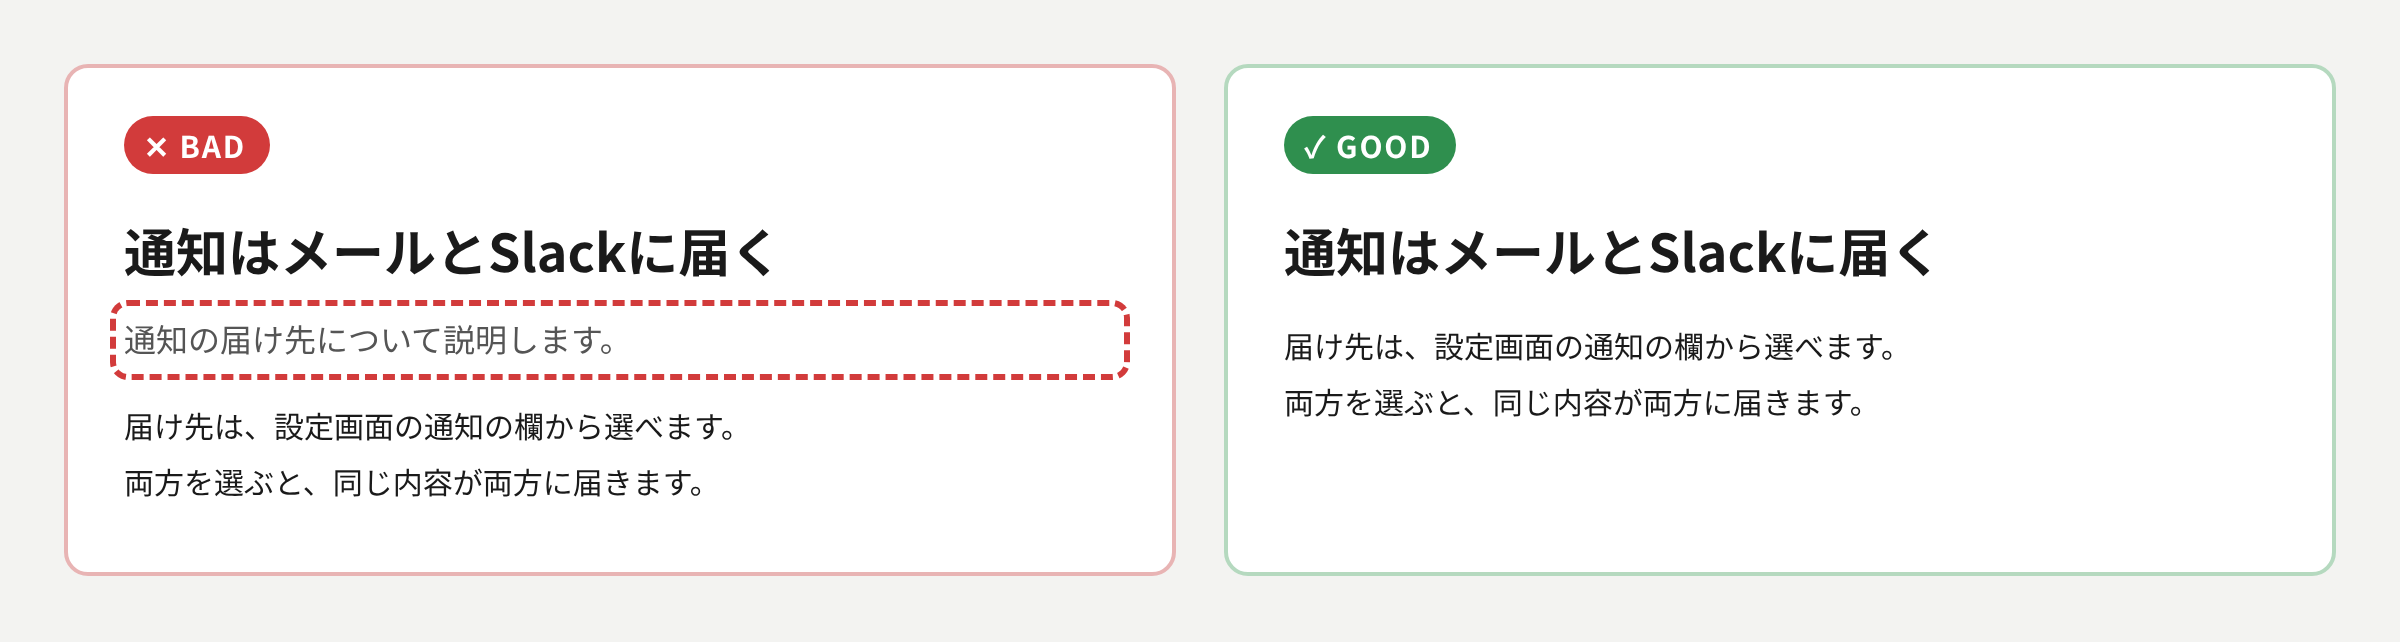
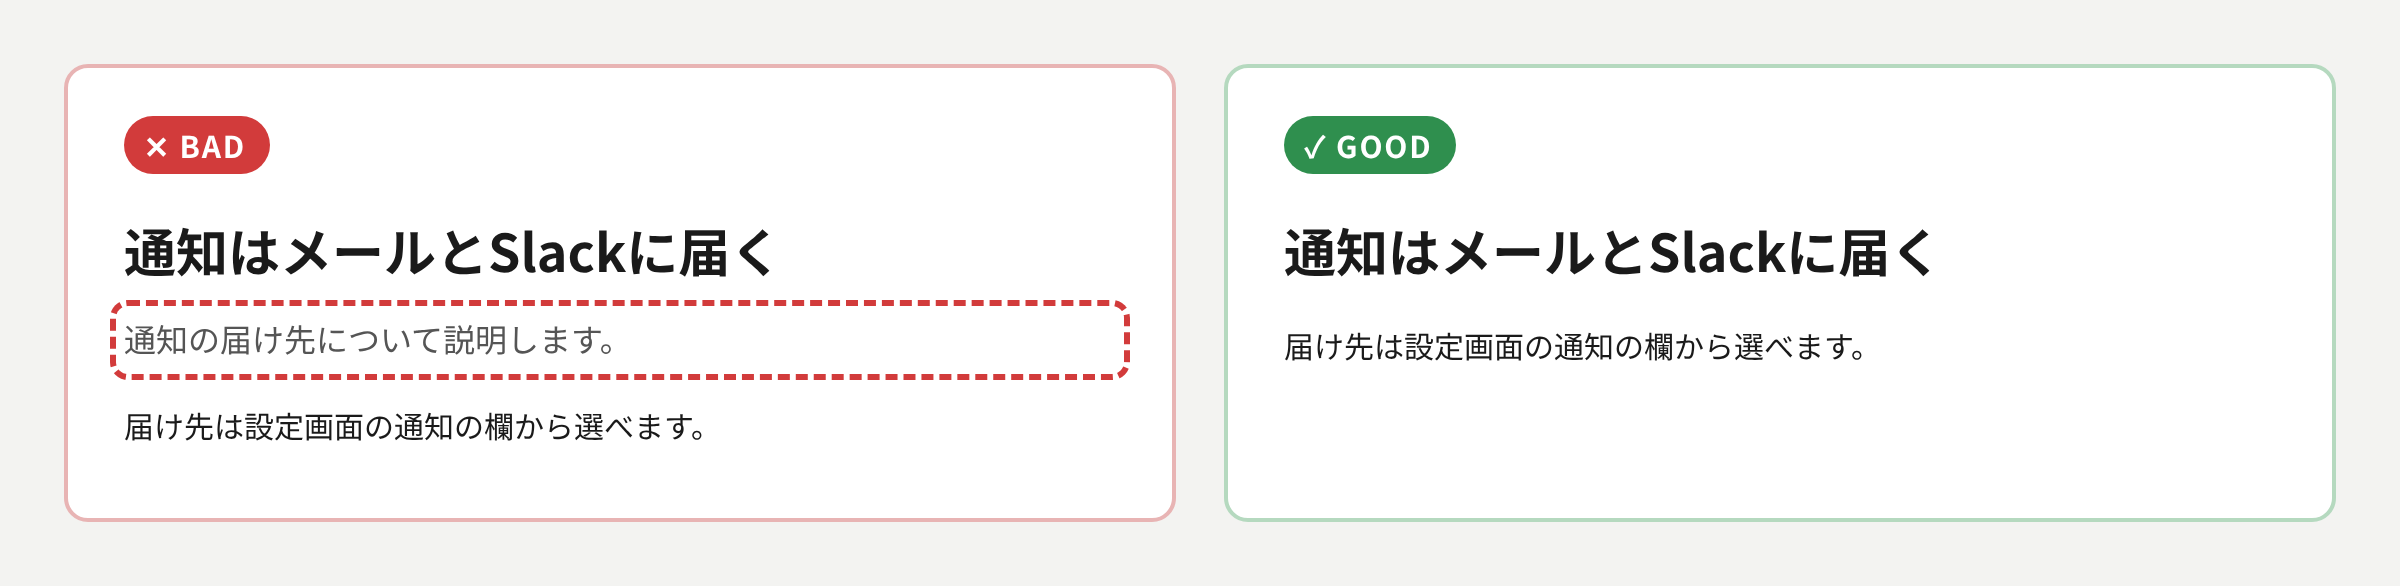
[skills]feat: UI原則に目的に使わない情報の項目を加え、全体を見直す
目的に使わない情報を添えない項目を加え、7項目を情報の扱い・見出し・組版・配置の順に並べ直す。
各項目は理由を先に置いて1文にまとめ、本文から導ける文と目的に要らない文を削る。
比較画像の見本は項目ごとに別の場面にし、比べる1点以外の文と読点を除く。

Claude-Session: https://claude.ai/code/session_01Ne1HHNAMu8rPHswPANjJZj

diff --git a/skills/UI原則/images/src/build.py b/skills/UI原則/images/src/build.py
@@ -58,65 +58,70 @@ def lines(*sentences):
 PAGES = {}
 
 # 1. 見出しの直後に、情報を足さない補足を置かない
-notify = "<p>" + lines("届け先は、設定画面の通知の欄から選べます。", "両方を選ぶと、同じ内容が両方に届きます。") + "</p>"
+notify = "<p>届け先は設定画面の通知の欄から選べます。</p>"
 PAGES["01-heading-lead"] = page(
     '<h2>通知はメールとSlackに届く</h2><p class="lead mark">通知の届け先について説明します。</p>' + notify,
     "<h2>通知はメールとSlackに届く</h2>" + notify,
 )
 
 # 2. 要点を言い換えた締めのひとことを書かない
-build = "<p>" + lines("依存パッケージの取得結果をキャッシュします。", "2回目以降のビルドでは、取得を省きます。") + "</p>"
+build = "<p>依存パッケージの取得結果をキャッシュします。</p>"
 PAGES["02-closing-line"] = page(
-    "<h2>ビルドは2回目から速くなる</h2>" + build + '<p class="closer mark">待ち時間が減れば、開発はもっと軽くなる。</p>',
+    "<h2>ビルドは2回目から速くなる</h2>" + build + '<p class="closer mark">待ち時間が減れば開発はもっと軽くなる。</p>',
     "<h2>ビルドは2回目から速くなる</h2>" + build,
     css=".closer{margin-top:16px;font-weight:700}",
 )
 
-# 3. 横に並ぶ要素の端と、中の要素の高さを揃える
+# 3. 目的に使わない情報を添えない
+PAGES["03-unneeded-info"] = page(
+    '<div class="toast"><b>✓</b><p>' + lines("保存しました。", '<span class="mark">保存先はクラウドでデータは暗号化されています。</span>') + "</p></div>",
+    '<div class="toast"><b>✓</b><p>保存しました。</p></div>',
+    css=""".toast{display:flex;gap:14px;align-items:flex-start;margin-top:8px;padding:16px 20px;border-radius:10px;background:#1a1a1a;color:#fff}
+.toast b{font-size:18px;line-height:1.6}.toast p{font-size:16px;line-height:1.75}.toast .mark{outline-color:#ff8a8a;outline-offset:2px}.toast .s+.s{margin-top:4px}""",
+)
+
+# 4. 見出しは事実を言い切る
+export = "<p>書き出す月を選ぶとその月の明細が1つのファイルになります。</p>"
+PAGES["04-heading-statement"] = page(
+    '<h2><span class="mark">データのエクスポートについて</span></h2>' + export,
+    "<h2>CSVは月ごとに書き出せる</h2>" + export,
+)
+
+# 5. 本文の段落では、1文ごとに改行する（複数の文がないと見せられないため、最小の2文にする）
+PAGES["05-sentence-per-line"] = page(
+    "<h2>パスワードは12文字以上</h2>"
+    '<p class="para">英字と数字をそれぞれ1文字以上含めてください。<span class="mark">前</span>と同じパスワードは使えません。</p>',
+    "<h2>パスワードは12文字以上</h2>"
+    '<p class="para">' + lines("英字と数字をそれぞれ1文字以上含めてください。", "前と同じパスワードは使えません。") + "</p>",
+    css=".para{max-width:420px}.para .mark{outline-offset:1px}",
+)
+
+# 6. 不自然な位置で折り返さない（BADの折り返しを再現できるよう、行は手で区切る）
+PAGES["06-line-break"] = page(
+    '<div class="col"><p>' + lines('保存できる容量は残り<span class="mark">1</span>', '<span class="mark">2</span>GBです。') + "</p></div>",
+    '<div class="col"><p>' + lines("保存できる容量は", "残り12GBです。") + "</p></div>",
+    css=".col{white-space:nowrap}.col p{font-size:20px;line-height:1.7}.col .mark{outline-offset:2px}",
+)
+
+# 7. 横に並ぶ要素の端と、中の要素の高さを揃える
 cards = (
     '<div class="cards" data-guides=".card:bottom,.fav:top">'
     '<div class="card"><b>weather</b><p>現在の天気を返す。</p><span class="fav">☆ お気に入り</span></div>'
-    '<div class="card"><b>github</b><p>Issueを読み書きする。</p><p>コメントも操作できる。</p><span class="fav">☆ お気に入り</span></div>'
+    '<div class="card"><b>github</b><p>Issueとプルリクエストを<span class="nobr">読み書きする。</span></p><span class="fav">☆ お気に入り</span></div>'
     "</div>"
 )
-PAGES["03-align"] = page(
+PAGES["07-align"] = page(
     cards,
     cards,
     css=""".cards{position:relative;display:grid;grid-template-columns:1fr 1fr;gap:16px;margin-top:8px}
 .card{border:2px solid #1a1a1a;border-radius:10px;padding:16px 18px;display:flex;flex-direction:column}
-.card b{font-size:19px;margin-bottom:6px}.card p{font-size:14px;line-height:1.7}
+.card b{font-size:19px;margin-bottom:6px}.nobr{white-space:nowrap}.card p{font-size:14px;line-height:1.7}
 .fav{align-self:flex-start;margin-top:14px;border:2px solid #1a1a1a;border-radius:999px;padding:3px 14px;font-size:13px;font-weight:700}
 .bad .cards{align-items:start}
 .good .cards{align-items:stretch}.good .fav{margin-top:auto}.good .card p:last-of-type{margin-bottom:14px}
 .guide{position:absolute;left:-12px;right:-12px;height:0;border-top:2px dashed}
 .bad .guide{border-color:#d23b3b}.good .guide{border-color:#2f8f4e}""",
     script=GUIDE_SCRIPT,
-)
-
-# 4. 不自然な位置で折り返さない（BADの折り返しを再現できるよう、行は手で区切る）
-PAGES["04-line-break"] = page(
-    '<div class="col"><p>' + lines('保存できる容量は、残り<span class="mark">1</span>', '<span class="mark">2</span>GBです。') + "</p>"
-    "<p>" + lines("古いバックアップは、30日たつと自動で削除され", '<span class="mark">る。</span>') + "</p></div>",
-    '<div class="col"><p>' + lines("保存できる容量は、", "残り12GBです。") + "</p>"
-    "<p>" + lines("古いバックアップは、30日たつと", "自動で削除される。") + "</p></div>",
-    css=".col{white-space:nowrap}.col p{font-size:20px;line-height:1.7}.col p+p{margin-top:20px}.col .mark{outline-offset:2px}",
-)
-
-# 5. 本文の段落では、1文ごとに改行する
-PAGES["05-sentence-per-line"] = page(
-    "<h2>パスワードは12文字以上</h2>"
-    '<p class="para">英字と数字を、それぞれ1文字以上含めてください。<span class="mark">記</span>号も使えます。'
-    '<span class="mark">前</span>と同じパスワードは使えません。</p>',
-    "<h2>パスワードは12文字以上</h2>"
-    '<p class="para">' + lines("英字と数字を、それぞれ1文字以上含めてください。", "記号も使えます。", "前と同じパスワードは使えません。") + "</p>",
-    css=".para{max-width:420px}.para .mark{outline-offset:1px}",
-)
-
-# 6. 見出しは事実を言い切る
-export = "<p>" + lines("書き出す月を選ぶと、その月の明細が1つのファイルになります。", "文字コードはUTF-8です。") + "</p>"
-PAGES["06-heading-statement"] = page(
-    '<h2><span class="mark">データのエクスポートについて</span></h2>' + export,
-    "<h2>CSVは月ごとに書き出せる</h2>" + export,
 )
 
 if __name__ == "__main__":

diff --git a/skills/UI原則/SKILL.md b/skills/UI原則/SKILL.md
@@ -1,7 +1,7 @@
 ---
 name: UI原則
 description: |
-  Webページ、アプリの画面、スライド、説明資料など、人が見るUIを作成・改修するときに、見た目のスタイルにかかわらず避ける作りの取り決め。見出しの直後の補足、締めのひとこと、横に並ぶ要素の揃え、折り返し、1文ごとの改行、見出しの言い切りを扱う。
+  Webページ、アプリの画面、スライド、説明資料など、人が見るUIを作成・改修するときに、見た目のスタイルにかかわらず避ける作りの取り決め。見出しの直後の補足、締めのひとこと、目的に使わない情報、見出しの言い切り、1文ごとの改行、折り返し、横に並ぶ要素の揃えを扱う。
 metadata:
   user-review: false
   labels: [規約]
@@ -11,54 +11,51 @@ metadata:
 
 ## このスキルの目的
 
-AIが作るUIには、情報を増やさずに文字だけを増やす癖と、揃いや折り返しの崩れに気づきにくい癖がある。
-どのデザインスタイルで作る場合でも避ける作りをここに集める。
-各項目の画像は、左がBAD、右がGOODで、違いを赤や緑の印で示す。
+AIが作るUIには、要らない文を足す癖と、揃いや折り返しの崩れに気づきにくい癖があるため、どのデザインスタイルで作る場合でも避ける作りをここに集める。
 
 ## あるべき状態
 
 ### 見出しの直後に、情報を足さない補足を置かない
 
-見出しの直後には、見出しを言い換えた補足やリード文ではなく、本文・図・具体例を直接続ける。
-同じことを2度読ませると、どちらが主か分からなくなるためである。
-補足の枠を持つデザインでも、見出しにない情報がなければ枠ごと省く。
+同じことを2度読ませると、どちらが主か分からなくなるため、見出しの直後には、見出しを言い換えた補足やリード文ではなく、本文・図・具体例を直接続ける。
 
 ![](images/01-heading-lead.png)
 
 ### 要点を言い換えた締めのひとことを書かない
 
-節やスライドの最後に、述べた要点を格言風に言い換えた1文を置かない。
-新しい情報がないまま、もう1つの主張のように見えて目を分散させるためである。
-締めに置く文は、次の行動や参照先など、まだ書いていない情報を持つものに限る。
+新しい情報がないまま、もう1つの主張のように見えて目を分散させるため、節やスライドの最後に、述べた要点を格言風に言い換えた1文を置かない。
 
 ![](images/02-closing-line.png)
 
-### 横に並ぶ要素の端と、中の要素の高さを揃える
+### 目的に使わない情報を添えない
 
-横に並べた箱やカードは、上端と下端を揃え、カードの中でも同じ役割の要素（ボタンなど）を同じ高さに置く。
-同じ高さに違う役割の要素が並ぶと、見比べにくく、押す場所も探すことになるためである。
-中身の量が違うときは、説明文などの量が変わる要素の下を余白にして、ボタンなど末尾の要素を下端に揃える。
+何が要点かを読み分ける負荷が増えるため、その画面で読み手が知るべき本質的な情報以外は、関連していても書かない。
+補足や任意の情報は、折り畳みや注釈として別の箇所に書く。
 
-![](images/03-align.png)
-
-### 不自然な位置で折り返さない
-
-1〜2文字だけの行を作らず、語、数値と単位、括弧の内側の途中で改行しない。
-読み手が意味の切れ目で止まれず、組みの質が低く見えるためである。
-日本語は文節の切れ目で改行させ（CSSなら`word-break: auto-phrase`）、狭い幅と広い幅の両方で確かめる。
-
-![](images/04-line-break.png)
-
-### 本文の段落では、1文ごとに改行する
-
-本文の段落では、句点の直後で改行し、次の文を行頭から始める。
-文が行の途中から始まると、文の区切りを目で追えないためである。
-
-![](images/05-sentence-per-line.png)
+![](images/03-unneeded-info.png)
 
 ### 見出しは事実を言い切る
 
-見出しは、手順のラベルや「〜について」ではなく、その節の要点を言い切る文にする。
-見出しだけを拾い読みしても、内容が伝わるようにするためである。
+見出しだけを拾い読みしても内容が伝わるように、見出しは手順のラベルや「〜について」ではなく、その節の要点を言い切る文にする。
 
-![](images/06-heading-statement.png)
+![](images/04-heading-statement.png)
+
+### 本文の段落では、1文ごとに改行する
+
+文が行の途中から始まると、文の区切りを目で追えないため、本文の段落では句点の直後で改行し、次の文を行頭から始める。
+
+![](images/05-sentence-per-line.png)
+
+### 不自然な位置で折り返さない
+
+意味の切れ目で止まれず読みにくくなるため、1〜2文字だけの行を作らず、語、数値と単位、括弧の内側の途中で改行しない。
+日本語は文節の切れ目で改行させ（CSSなら`word-break: auto-phrase`）、狭い幅と広い幅の両方で確かめる。
+
+![](images/06-line-break.png)
+
+### 横に並ぶ要素の端と、中の要素の高さを揃える
+
+同じ高さに違う役割の要素が並ぶと、見比べにくく、押す場所も探すことになるため、横に並べた箱やカードは上端と下端を揃え、中のボタンなど同じ役割の要素も同じ高さに置く。
+中身の量が違うときは、説明文など量が変わる要素の下を余白にして、末尾の要素を下端に揃える。
+
+![](images/07-align.png)
